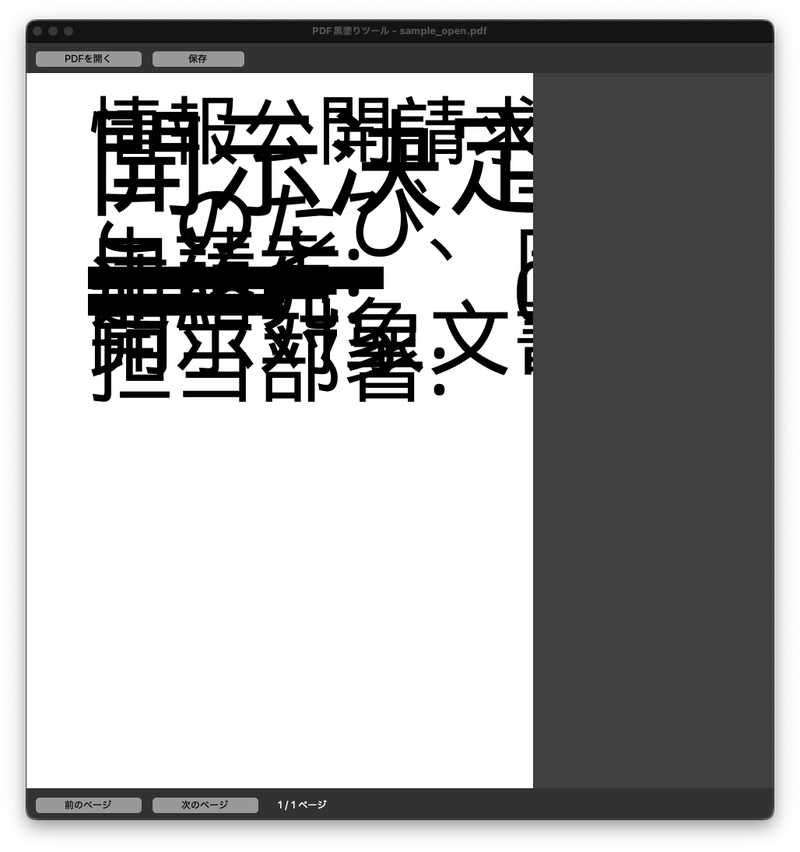
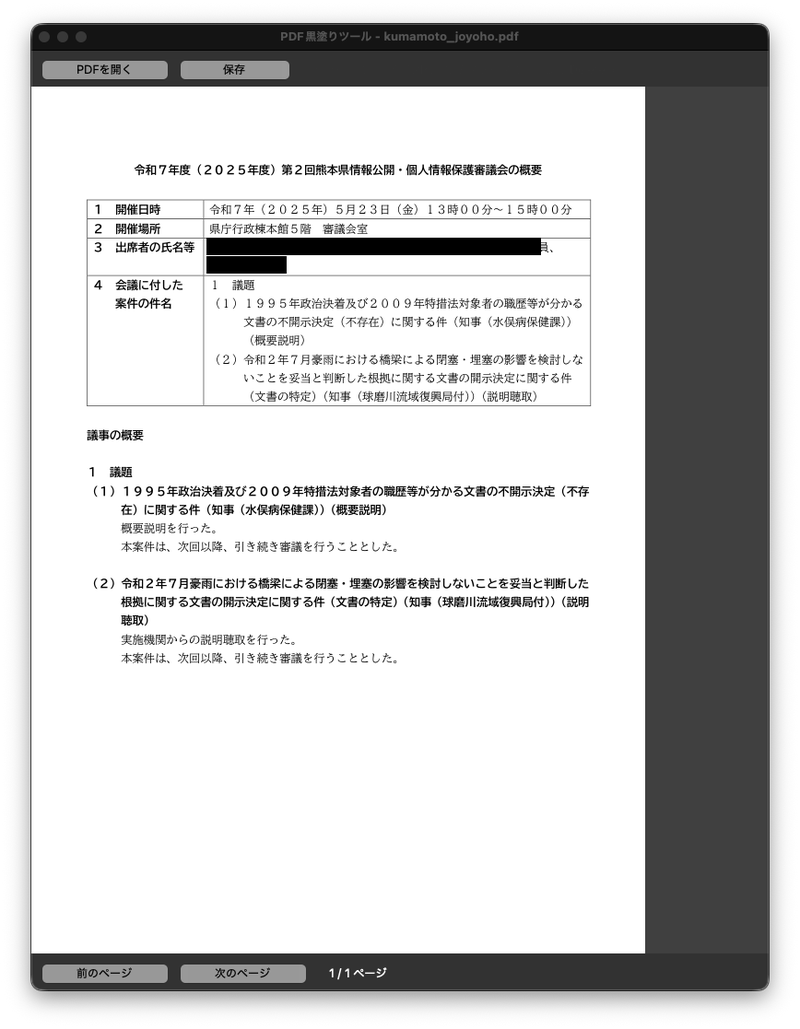
docs: スクリーンショットを実在の公開公文書(熊本県情報公開・個人情報保護審議会の概要)ベースに差し替え

Changed region(s): [[0.0312, 0.0, 0.8125, 0.9765], [0.9375, 0.0, 0.9688, 0.9765]]

diff --git a/README.md b/README.md
@@ -104,7 +104,7 @@ python3 redact.py    # Windows では: python redact.py
 ![PDF黒塗りツールの画面](docs/screenshot.png)
 
 PDFを開くとページが表示され、ドラッグした範囲が黒く塗りつぶされます
-（例では住所・電話番号の行を黒塗りしています）。
+（例では、実際に公開されている審議会資料の出席者氏名を黒塗りしています）。
 
 ## 使い方
 
